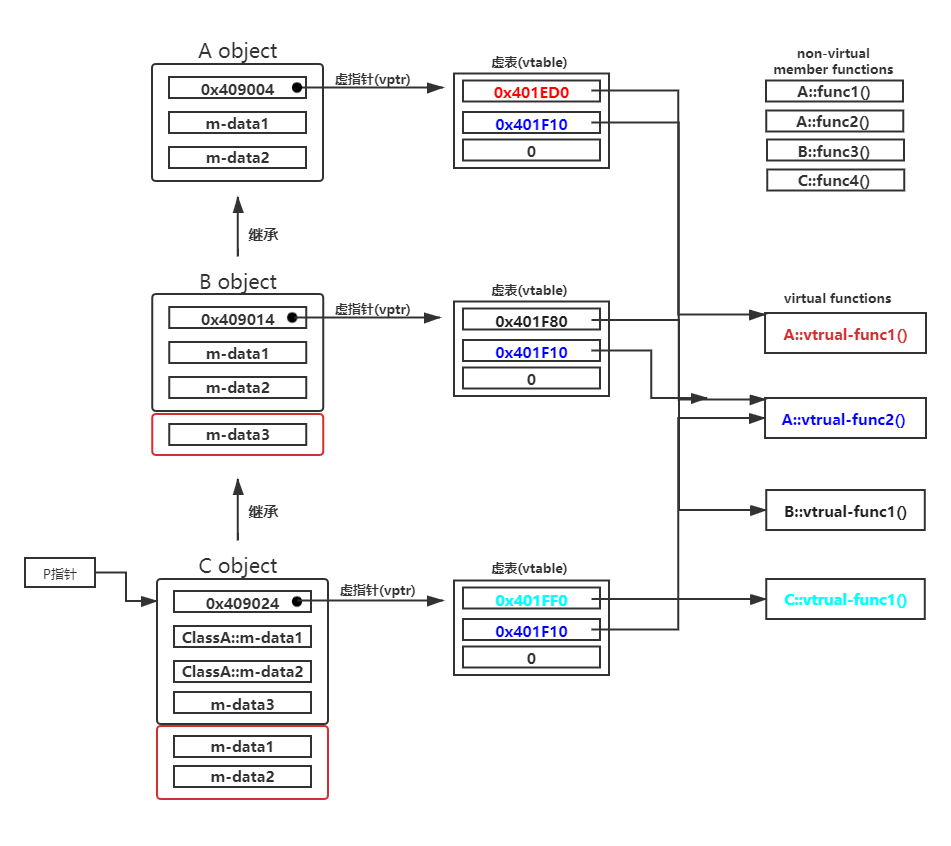
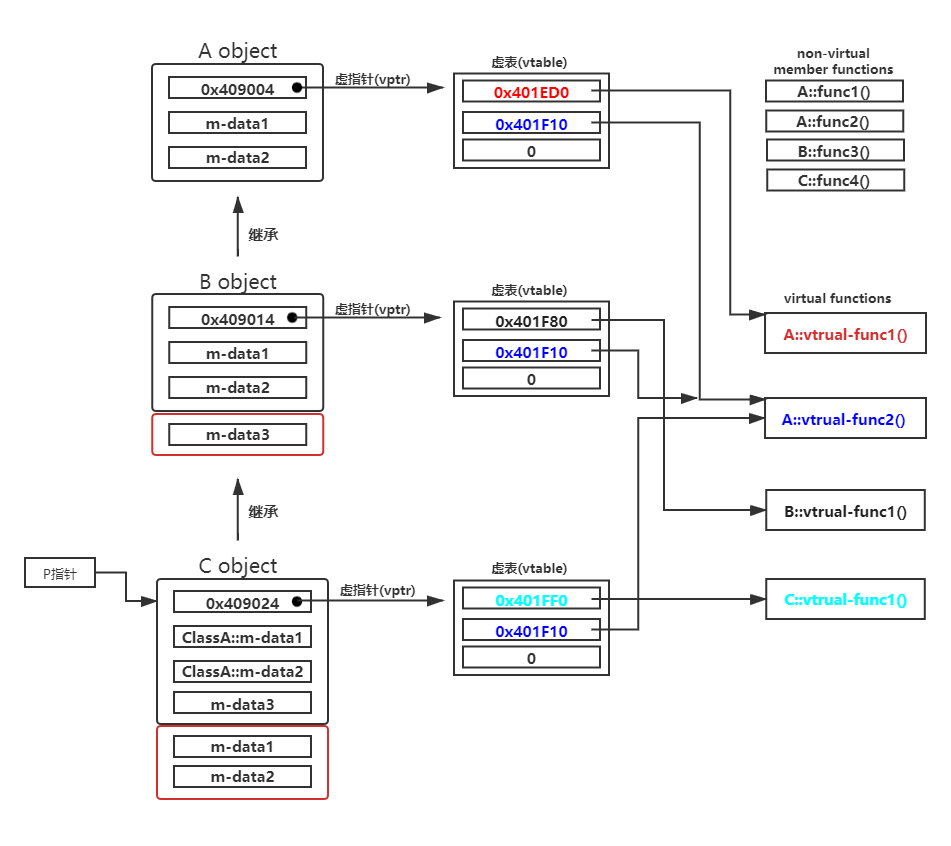
my commit

Changed region(s): [[0.6709, 0.0922, 0.7928, 0.7069], [0.6709, 0.7376, 0.7014, 0.7683]]

diff --git a/_posts/2021-07-20-ObjectModel.md b/_posts/2021-07-20-ObjectModel.md
@@ -22,10 +22,13 @@ mathjax: true
 # ObjectModel
 ## vptr(虚指针)&&vtable(虚表)「虚机制」
 ### 对象模型在底层内存的分析
+
+**先上代码:**
+    
     class a{
     public: 
-        virtual void virtual_func1();
-        virtual void virtual_func2();  
+        virtual void virtual_func1(); //虚函数
+        virtual void virtual_func2(); //虚函数
         void func1();
         void func2(); 
     private:
@@ -34,7 +37,7 @@ mathjax: true
 
     class b:public a{
     public:
-        virtual void virtual-func1(); 
+        virtual void virtual-func1(); //子类b重写了父类a的虚函数
         void func3(); 
     private:
         int m-data3;
@@ -42,7 +45,7 @@ mathjax: true
 
     class c:public b{
     public:
-        virtual void virtual-func1();
+        virtual void virtual-func1(); //子类c重写了父类b的虚函数
         void func4();
     private:
         int m-data1,m-data2;
@@ -50,7 +53,7 @@ mathjax: true
 
 ![内存图示]({{"https://www.karlharris.cn/img/objectmodel.png"|absolute_url}})
 
-图表达的类对象在内存中的分布是真实存在的，从图中可以看出类中含有一个以上的**虚函数**并且类和类之间有继承关系时(**函数的继承不是指继承函数所占内存大小，而是指继承函数调用权**)，类内会有多出一个**指针(虚指针)** 指向 **虚表**，子类的指针指向的虚表里**相同的指针**指向**没有重写(OverRide)**的**虚函数**,子类重载的虚函数会被重新分配一个地址.编译器看到有指针指向的类使用虚函数时就进行图示调用(动态绑定),指向对象的**p指针**通过指向**虚表的vptr**找**指向虚函数的vtable**找对应的函数地址，虚函数的调用解释称成C形式的代码如下所示:
+图表达的类对象在内存中的分布是真实存在的，从图中可以看出类中含有一个以上的**虚函数**并且类和类之间有继承关系时(**函数的继承不是指继承函数所占内存大小，而是指继承函数调用权**)，类内会有多出一个**指针(虚指针)** 指向 **虚表**，子类**没有重写(OverRide)**的**虚函数**都会指向同一个虚函数(相同地址),而子类**重写**的虚函数会被**重新分配**一个地址.编译器看到有指针指向的类使用虚函数时就进行图示调用(动态绑定),即指向对象的**p指针**通过指向**虚表的vptr**找到**指向虚函数的vtable**最后找到想要调用函数地址，虚函数的调用解释称成C形式的代码如下所示:
 
     *(ptr->vptr)[n](p);
     (*ptr->vptr[n])(p);
